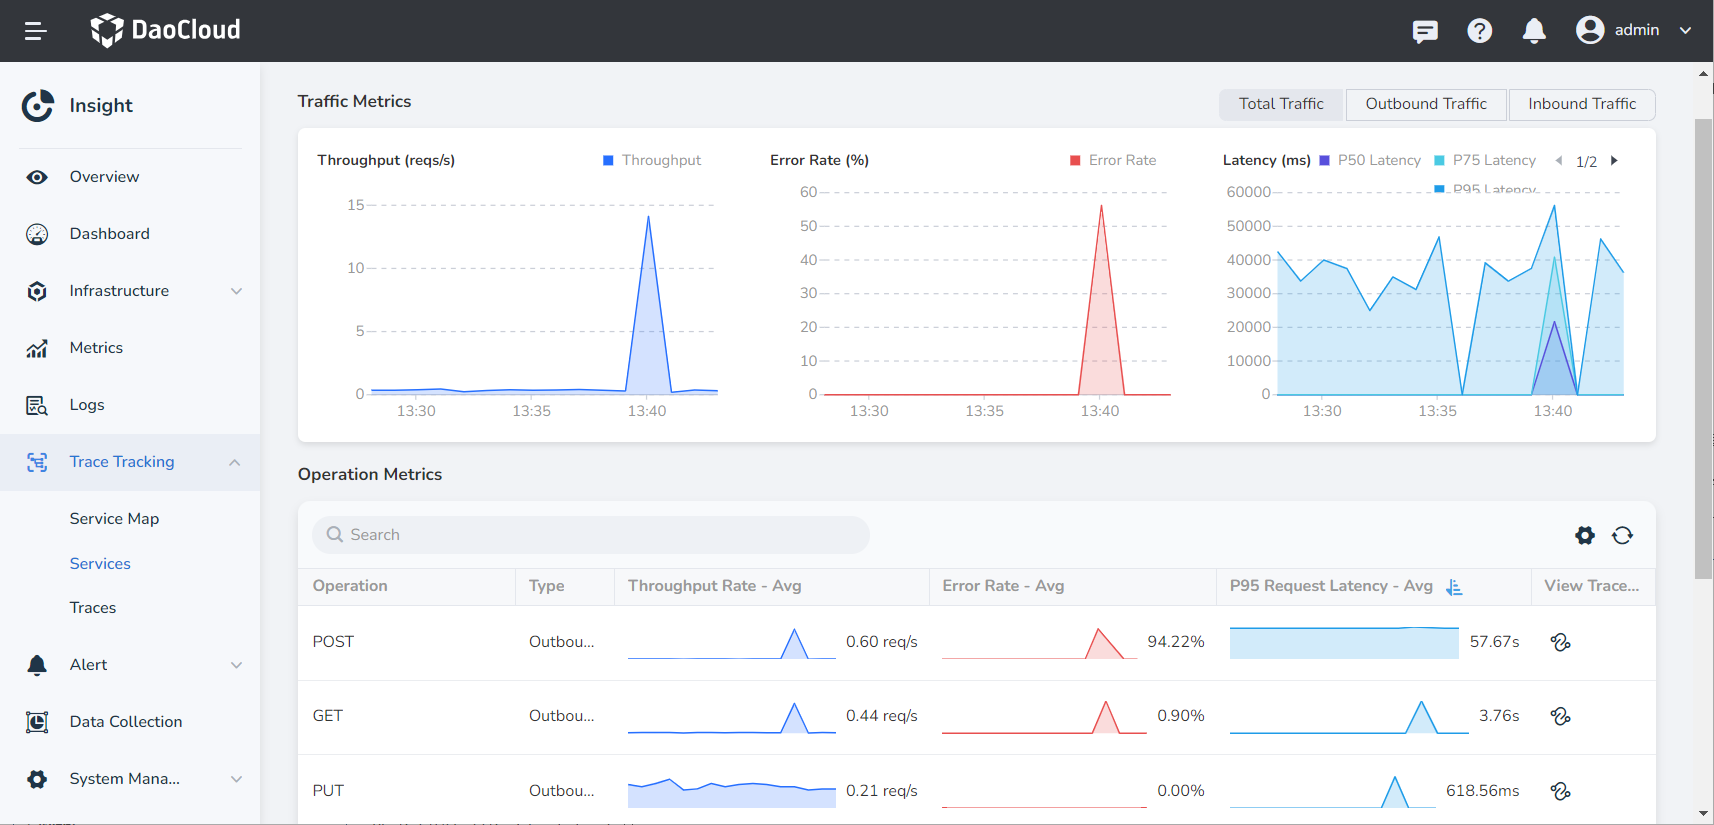
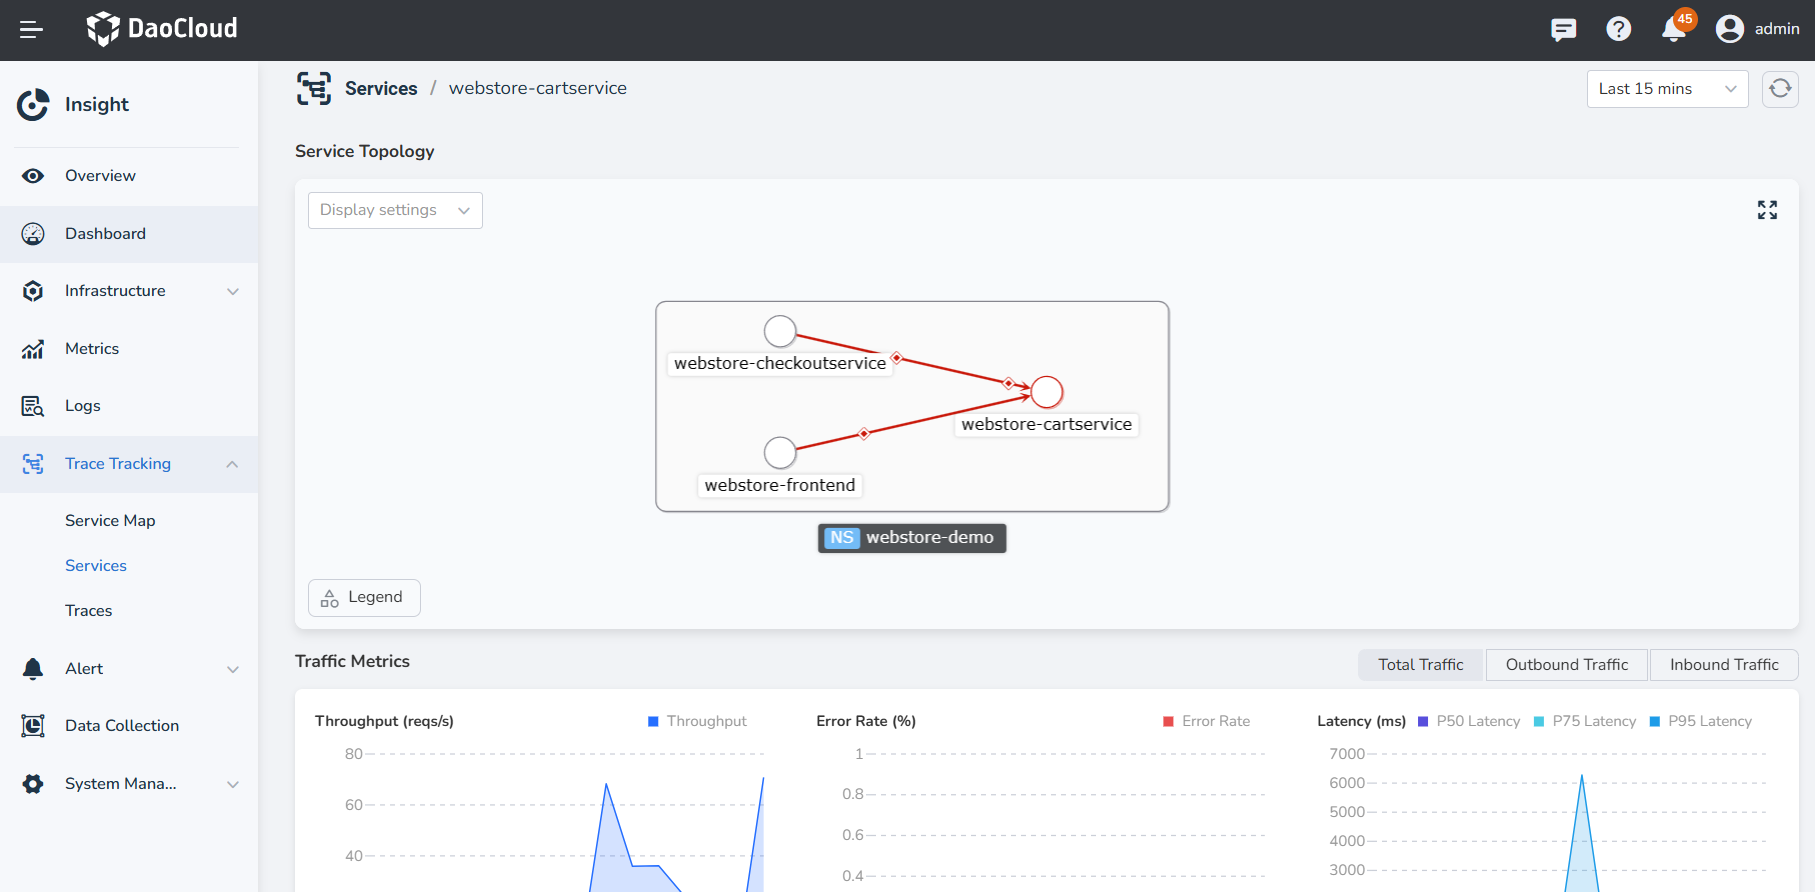
[en]update insight-userguide docs

diff --git a/docs/en/docs/insight/user-guide/trace/service.md b/docs/en/docs/insight/user-guide/trace/service.md
@@ -5,20 +5,26 @@ Date: 2024-01-23
 
 # Service Insight
 
-In __Insight__ , a service refers to a group of workloads that provide the same behavior for incoming requests. Service insight helps observe the performance and status of applications during the operation process by using the OpenTelemetry SDK.
+In __Insight__ , a service refers to a group of workloads that provide the same behavior for incoming requests. 
+Service insight helps observe the performance and status of applications during the operation process by 
+using the OpenTelemetry SDK.
 
-For how to use OpenTelemetry, please refer to: [Using OTel to give your application insight](https://docs.daocloud.io/en/insight/user-guide/quickstart/otel/otel/).
+For how to use OpenTelemetry, please refer to: [Using OTel to give your application insight](../../quickstart/otel/otel.md).
 
 ## Glossary
 
-- **Service**: A service represents a group of workloads that provide the same behavior for incoming requests. You can define the service name when using the OpenTelemetry SDK or use the name defined in Istio.
+- **Service**: A service represents a group of workloads that provide the same behavior for incoming requests. 
+  You can define the service name when using the OpenTelemetry SDK or use the name defined in Istio.
 - **Operation**: An operation refers to a specific request or action handled by a service. Each span has an operation name.
 - **Outbound Traffic**: Outbound traffic refers to all the traffic generated by the current service when making requests.
 - **Inbound Traffic**: Inbound traffic refers to all the traffic initiated by the upstream service targeting the current service.
 
 ## Steps
 
-The Services List page displays key metrics such as throughput rate, error rate, and request latency for all services that have been instrumented with distributed tracing. You can filter services based on clusters or namespaces and sort the list by throughput rate, error rate, or request latency. By default, the data displayed in the list is for the last hour, but you can customize the time range.
+The Services List page displays key metrics such as throughput rate, error rate, and request latency for all services 
+that have been instrumented with distributed tracing. You can filter services based on clusters or namespaces and sort 
+the list by throughput rate, error rate, or request latency. By default, the data displayed in the list is for the last hour, 
+but you can customize the time range.
 
 Follow these steps to view service insight metrics:
 
@@ -28,17 +34,22 @@ Follow these steps to view service insight metrics:
 
     ![Trace Tracking](../images/service00.png){ width="1000"}
 
-!!! attention
+    !!! attention
 
-    1. If the namespace of a service in the list is ___unknown__ , it means that the service has not been properly instrumented. We recommend reconfiguring the instrumentation.
-    2. If multiple services have the same name and none of them have the correct __Namespace__ environment variable configured, the metrics displayed in the list and service details page will be aggregated for all those services.
+        1. If the namespace of a service in the list is __unknown__ , it means that the service has not been properly instrumented. 
+           We recommend reconfiguring the instrumentation.
+        2. If multiple services have the same name and none of them have the correct __Namespace__ environment variable configured, 
+           the metrics displayed in the list and service details page will be aggregated for all those services.
 
-3. Click a service name (e.g., __opentelemetry-demo__ ) to view the detailed metrics and operation metrics for that service.
+3. Click a service name (taking insight-system as an example) to view the detailed metrics and operation metrics for that service.
 
-   1. In the Traffic Metrics section, you can view the monitoring metrics for all requests to the service within the past hour (including inbound and outbound traffic).
-   2. You can use the time selector in the upper right corner to quickly select a time range or specify a custom time range.
-   3. Sorting is available for throughput, error rate, and request latency in the operation metrics.
-   4. Clicking on the icon next to an individual operation will take you to the __Traces__ page to quickly search for related traces.
+    1. In the Service Topology section, you can view the service topology one layer above or below the current service. 
+       When you hover over a node, you can see its information.
+    2. In the Traffic Metrics section, you can view the monitoring metrics for all requests to the service within 
+       the past hour (including inbound and outbound traffic).
+    3. You can use the time selector in the upper right corner to quickly select a time range or specify a custom time range.
+    4. Sorting is available for throughput, error rate, and request latency in the operation metrics.
+    5. Clicking on the icon next to an individual operation will take you to the __Traces__ page to quickly search for related traces.
 
     ![Service Monitoring](../images/service01.png){: width="1000px"}
 
@@ -48,4 +59,6 @@ Follow these steps to view service insight metrics:
 | ------ | ----------- |
 | Throughput Rate | The number of requests processed within a unit of time. |
 | Error Rate | The ratio of erroneous requests to the total number of requests within the specified time range. |
-| Request Latency | The average response time of service requests within a unit of time. |
+| P50 Request Latency | The response time within which 50% of requests complete. |
+| P95 Request Latency | The response time within which 95% of requests complete. |
+| P99 Request Latency | The response time within which 99% of requests complete. |

diff --git a/docs/en/docs/insight/user-guide/trace/topology.md b/docs/en/docs/insight/user-guide/trace/topology.md
@@ -1,6 +1,9 @@
-# Service Topology
+# Service Map
 
-Service topology is a visual representation of the connections, communication, and dependencies between services. It provides insights into the service-to-service interactions, allowing you to view the calls and performance of services within a specified time range. The connections between nodes in the topology represent the existence of service-to-service calls during the queried time period.
+Service map is a visual representation of the connections, communication, and dependencies between services. 
+It provides insights into the service-to-service interactions, allowing you to view the calls and performance of 
+services within a specified time range. The connections between nodes in the topology map represent the existence of 
+service-to-service calls during the queried time period.
 
 ## Prerequisites
 
@@ -12,12 +15,37 @@ Service topology is a visual representation of the connections, communication, a
 
 1. Go to the __Insight__ product module.
 
-2. Select __Distributed Tracing > Service Topology__ from the left navigation pane.
+2. Select __Trace Tracking__ -> __Service Map__ from the left navigation pane.
 
-3. In the topology graph, you can perform the following actions:
+3. In the Service Map, you can perform the following actions:
 
     - Click a node to slide out the details of the service on the right side. Here,
       you can view metrics such as request latency, throughput, and error rate for the service.
       Clicking on the service name takes you to the service details page.
     - Hover over the connections to view the traffic metrics between the two services.
-    - In the "Display Settings" module, you can configure the display elements in the topology graph.
+    - Click __Display Settings__ , you can configure the display elements in the service map.
+
+    ![Servicemap](../../user-guide/images/servicemap.png)
+
+### Other Nodes
+
+In the Service Map, there can be nodes that are not part of the cluster. These external nodes can be categorized into three types:
+
+- Database
+- Message Queue
+- Virtual Node
+
+1. If a service makes a request to a Database or Message Queue, these two types of nodes will be displayed 
+   by default in the topology map. However, Virtual Nodes represent nodes outside the cluster or services 
+   not integrated into the trace, and they will not be displayed by default in the map.
+
+2. When a service makes a request to MySQL, PostgreSQL, or Oracle Database, the detailed database type 
+   can be seen in the map.
+
+#### Enabling Virtual Nodes
+
+1. Update the `insight-server` chart values, locate the parameter shown in the image below, and change `false` to `true`.
+
+   ![change-parameters](../../image/servicemap.png)
+
+2. In the display settings of the service map, check the `Virtual Services` option to enable it.

diff --git a/docs/zh/docs/insight/user-guide/trace/service.md b/docs/zh/docs/insight/user-guide/trace/service.md
@@ -24,18 +24,18 @@
 
     ![服务监控](https://docs.daocloud.io/daocloud-docs-images/docs/zh/docs/insight/images/service00.png){ width="1000"}
 
-!!! attention
+    !!! attention
 
-    1. 若列表中服务所在的命名空间为 ___unknown__ 时，则表示该服务未规范接入，建议重新接入。
-    2. 若接入的服务存在同名且均未正确填写环境变量中的 __命名空间__ 时，列表及服务详情页中展示的监控数据为多个服务的汇总数据。
+        1. 若列表中服务所在的命名空间为 __unknown__ 时，则表示该服务未规范接入，建议重新接入。
+        2. 若接入的服务存在同名且均未正确填写环境变量中的 __命名空间__ 时，列表及服务详情页中展示的监控数据为多个服务的汇总数据。
 
 3. 点击服务名 (以 insight-system 为例)，点击进入服务详情页，查看服务的详细指标和该服务的操作指标。
 
-   1. 在服务拓扑模块中，您可以查看当前所选服务的上下各一层的服务拓扑，鼠标悬浮在节点上时可以查看节点的信息。
-   2. 在流量指标模块，您可查看到该服务默认一小时内全部请求（包含入口流量和出口流量）的监控指标。
-   3. 支持通过右上角的时间选择器快速选择时间范围，或自定义时间范围。
-   4. 支持对操作指标中的吞吐率、错误率、请求延时等指标进行排序。
-   5. 点击单个操作后的图标，可跳转至 __调用链__ 快速查询相关链路。
+    1. 在服务拓扑模块中，您可以查看当前所选服务的上下各一层的服务拓扑，鼠标悬浮在节点上时可以查看节点的信息。
+    2. 在流量指标模块，您可查看到该服务默认一小时内全部请求（包含入口流量和出口流量）的监控指标。
+    3. 支持通过右上角的时间选择器快速选择时间范围，或自定义时间范围。
+    4. 支持对操作指标中的吞吐率、错误率、请求延时等指标进行排序。
+    5. 点击单个操作后的图标，可跳转至 __调用链__ 快速查询相关链路。
 
     ![服务监控](../../images/service01.png){ width="1000"}
 
